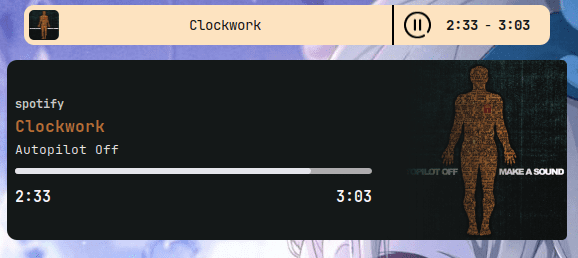
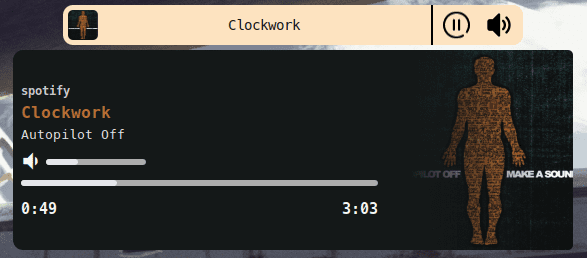
Update player

diff --git a/.config/eww/eww.scss b/.config/eww/eww.scss
@@ -318,6 +318,12 @@ tooltip label {
 	opacity: 0.9;
 }
 
+.icon_volume{
+	background-position: center;
+	background-size: contain;
+	background-repeat: no-repeat;
+}
+
 .player_d .song_time_current{
 	padding-top: 10px;
 	font-size: 15;
@@ -332,6 +338,11 @@ tooltip label {
 progressbar *{
 	background: #e5e5eb;
 	border-radius: 50px;
+}
+
+
+.player_volume{
+	margin-bottom: 0px;
 }
 
 progressbar > trough{

diff --git a/.config/eww/scripts/dominant.py b/.config/eww/scripts/dominant.py
@@ -96,7 +96,7 @@ def main():
             r = round(float(r))
             g = round(float(g))
             b = round(float(b))
-    
+
             new_r = min(int(round(r) * factor), 255)
             new_g = min(int(round(g) * factor), 255)
             new_b = min(int(round(b) * factor), 255)

diff --git a/.config/eww/README.md b/.config/eww/README.md
@@ -20,9 +20,6 @@ These are the ones used
 | API_KEY_WEATHER  | API key from openweathermap |
 | CITY_WEATHER  | Your city id from openweathermap|
 
-<img src="https://github.com/Rufi512/dotfiles/blob/main/.config/eww/screenshot.png" alt="eww"/>
-
-
 **Weather**
 
 <img src="https://github.com/Rufi512/dotfiles/blob/main/.config/eww/weather.png" alt="eww-weather"/>
